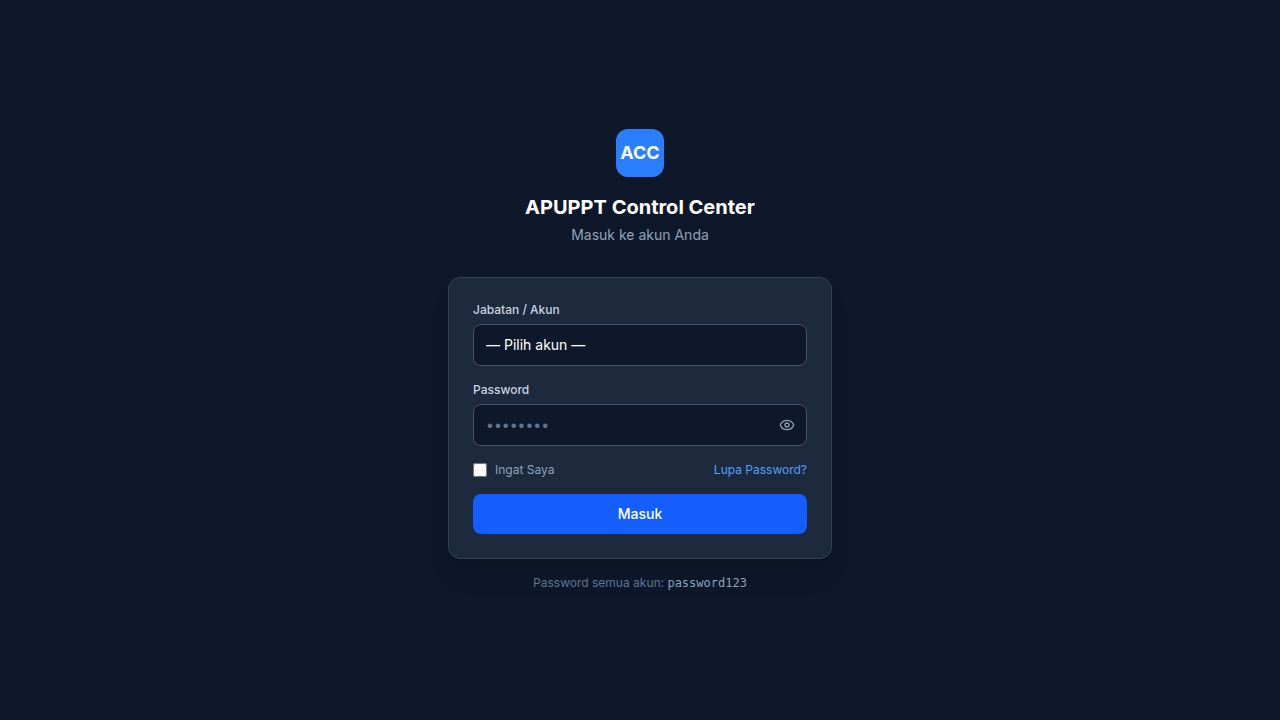
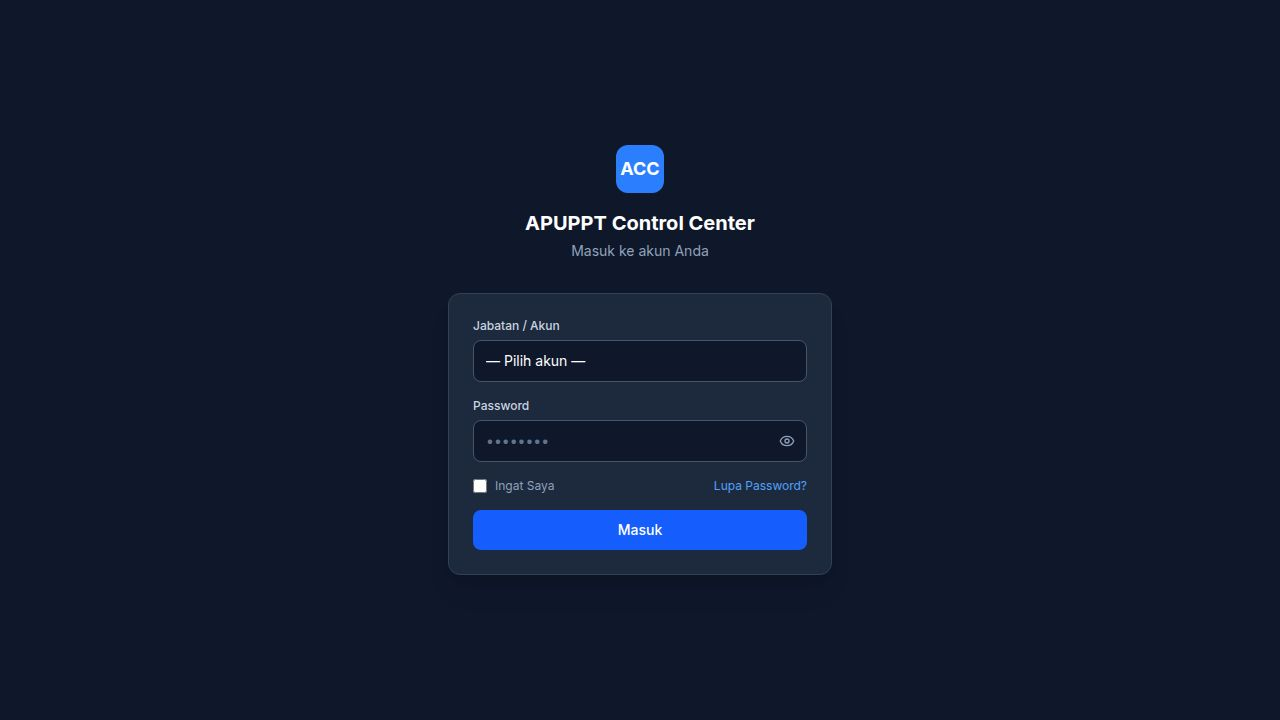
Remove password from login and ensure database is updated before deployment
Update artifact.toml to include database push command in the production build process and remove the visible password from the login page.

Replit-Commit-Author: Agent
Replit-Commit-Session-Id: f94d3ffe-4b24-461b-b636-7ceb1911c853
Replit-Commit-Checkpoint-Type: full_checkpoint
Replit-Commit-Event-Id: 3f46131b-dc16-4cac-a7b9-6831f5bd2476
Replit-Commit-Screenshot-Url: https://storage.googleapis.com/screenshot-production-us-central1/2e2fab25-fb9f-4880-a62e-953e81e401d0/f94d3ffe-4b24-461b-b636-7ceb1911c853/6Ej2CmT
Replit-Helium-Checkpoint-Created: true

Changed region(s): [[0.3438, 0.4278, 0.6562, 0.825], [0.4062, 0.1833, 0.5938, 0.3667]]

diff --git a/artifacts/acc-dashboard/src/pages/Login.tsx b/artifacts/acc-dashboard/src/pages/Login.tsx
@@ -190,7 +190,6 @@ export default function Login() {
           </form>
         </div>
 
-        <p className="mt-4 text-center text-xs text-slate-500">Password semua akun: <span className="font-mono text-slate-400">password123</span></p>
       </div>
     </div>
   );
